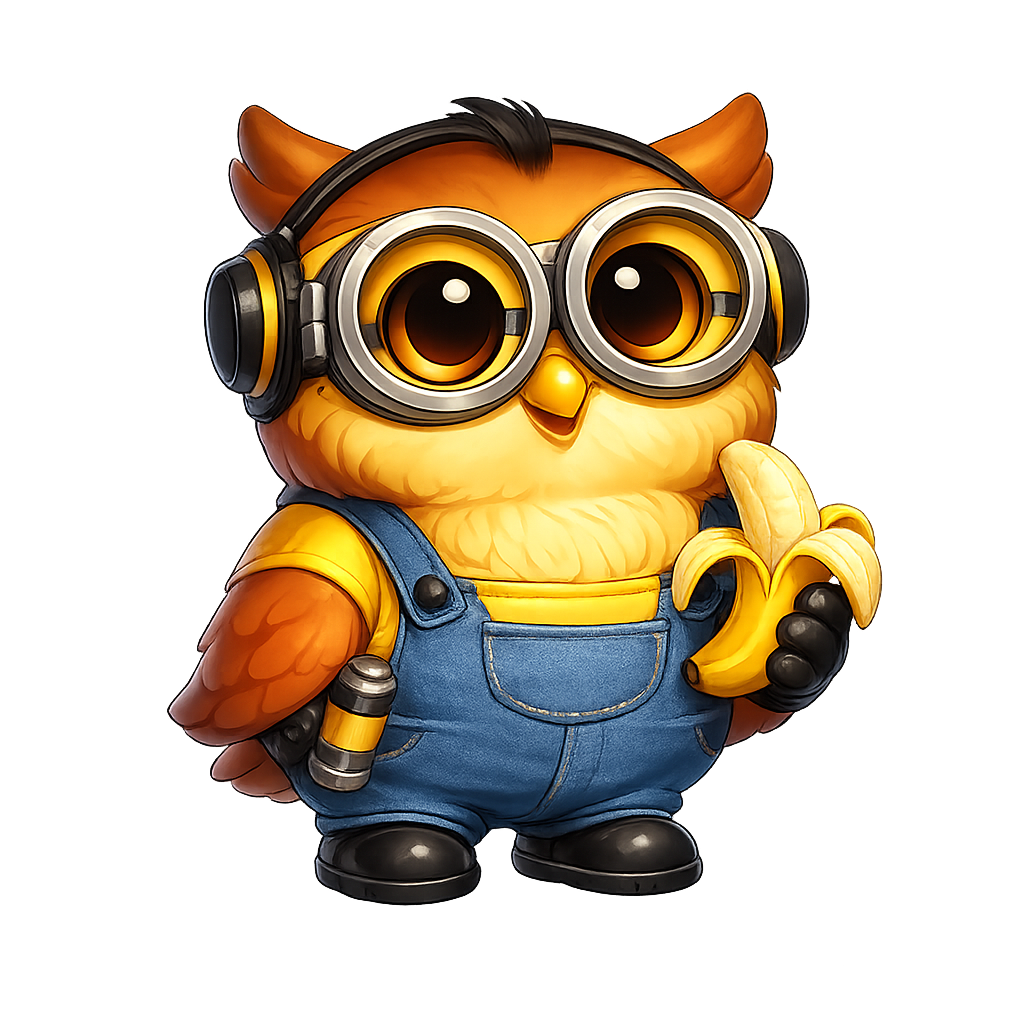
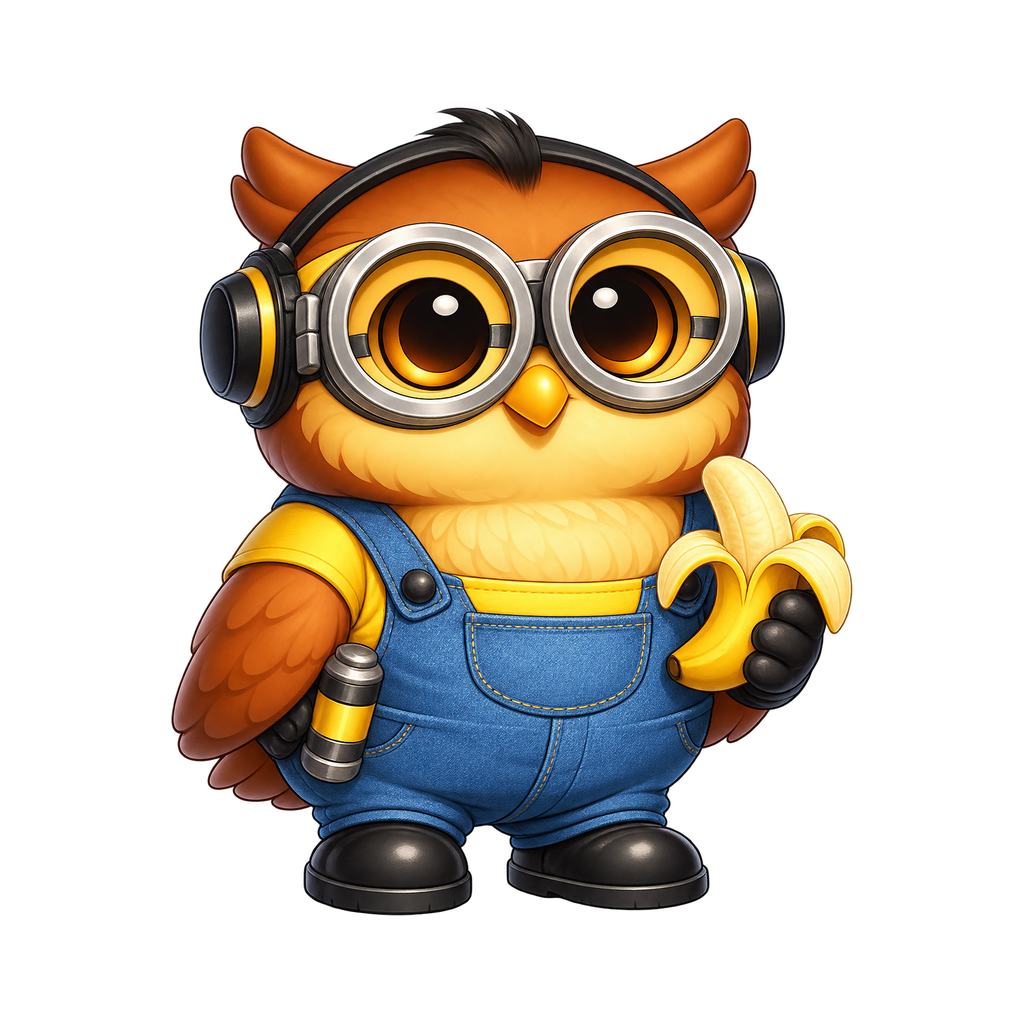
Show the current mascot set's images in the cast
The slasher card shows striped-sweater-claw, as striped-sweater-fedora
left the set.

Changed region(s): [[0.1562, 0.0938, 0.875, 0.9062]]

diff --git a/web/src/landing/mascot-theater/cast.ts b/web/src/landing/mascot-theater/cast.ts
@@ -9,7 +9,7 @@ import vampire from "../../assets/mascots/snappy-cape-and-fangs-1024.png";
 import wanderer from "../../assets/mascots/snappy-time-wanderer-striped-scarf-2-1024.png";
 import adventurer from "../../assets/mascots/snappy-relic-hunter-idol-1024.png";
 import minion from "../../assets/mascots/snappy-banana-goggle-minion-1024.png";
-import slasher from "../../assets/mascots/snappy-striped-sweater-fedora-1024.png";
+import slasher from "../../assets/mascots/snappy-striped-sweater-claw-1024.png";
 import werewolf from "../../assets/mascots/snappy-werewolf-1024.png";
 
 export const MASCOTS = {
@@ -19,7 +19,7 @@ export const MASCOTS = {
   "time-wanderer-striped-scarf-2": wanderer,
   "relic-hunter-idol": adventurer,
   "banana-goggle-minion": minion,
-  "striped-sweater-fedora": slasher,
+  "striped-sweater-claw": slasher,
   werewolf,
 } as const;
 
@@ -36,7 +36,7 @@ export const TINTS: Record<MascotId, number> = {
   "time-wanderer-striped-scarf-2": 220, // cosmic blue (long stripey scarf is rainbow; tint stays neutral)
   "relic-hunter-idol": 35, // warm tan / leather
   "banana-goggle-minion": 50, // banana yellow
-  "striped-sweater-fedora": 15, // rusty red (sweater)
+  "striped-sweater-claw": 15, // rusty red (sweater)
   werewolf: 270, // unused: silhouette card uses its own night gradient
 };
 
@@ -92,7 +92,7 @@ export const CAST: CastEntry[] = [
     rot: -4,
   },
   {
-    id: "striped-sweater-fedora",
+    id: "striped-sweater-claw",
     eyebrow: "#031 · Slasher",
     headline: "Dream slayer",
     body: "Haunting your dreams. It knows what apps you want to launch next.",

diff --git a/web/src/landing/mascot-theater/cast.test.ts b/web/src/landing/mascot-theater/cast.test.ts
@@ -41,6 +41,17 @@ describe("CAST", () => {
   });
 });
 
+describe("MASCOTS", () => {
+  // The ids are the mascot keys of the torchsnap-mascot set, and each
+  // image file carries its key in its name. A card whose id and file
+  // disagree would show one mascot under another one's name.
+  it("binds every id to the image file of the same key", () => {
+    for (const [id, image] of Object.entries(MASCOTS)) {
+      expect(image.src).toMatch(new RegExp(`/snappy-${id}-1024\\.png`));
+    }
+  });
+});
+
 describe("TINTS", () => {
   it("has a valid hue for every mascot", () => {
     expect(Object.keys(TINTS).sort()).toEqual(Object.keys(MASCOTS).sort());
